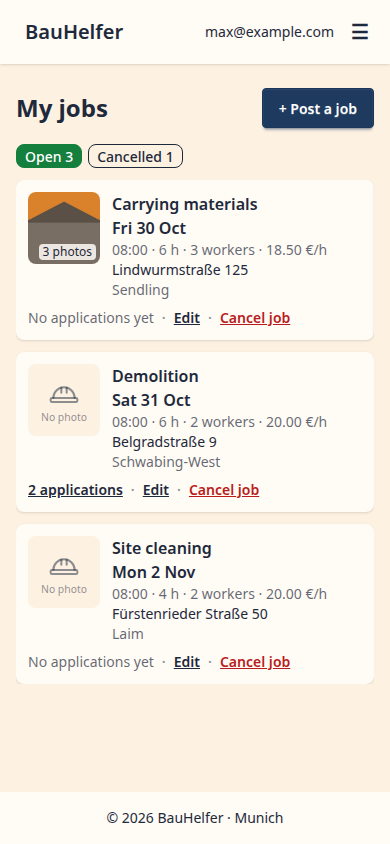
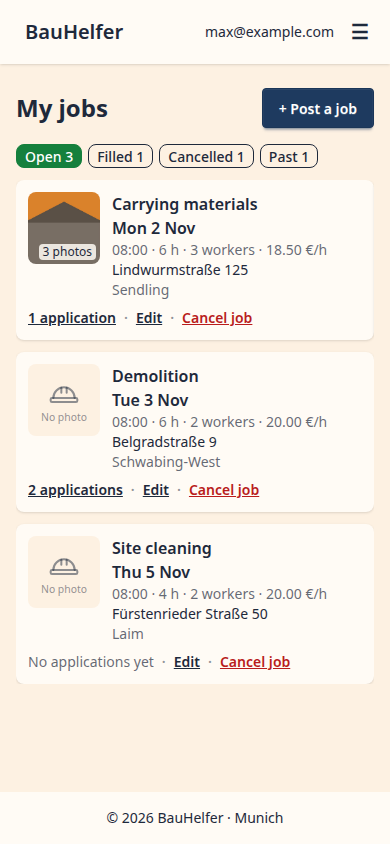
Update the built screenshots of "My applications" and "My jobs"

diff --git a/tests/e2e/built_screenshots.py b/tests/e2e/built_screenshots.py
@@ -56,10 +56,11 @@ def test_save_built_screenshots(page):
     """Save the built screenshots of the screens that exist.
 
     1. Create an employer with three open jobs (one with three photos, one with two
-       applications, one of them accepted) and a cancelled one, and a worker
+       applications, one of them accepted) and a cancelled one, and a worker; Ivan with
+       an accepted, a pending and a past application (#26)
     2. Open the job list as a guest, the job page as the worker, "Post a job", "My jobs"
-       and the job page with the applications as the employer, on a 390 x 844 screen in
-       the light theme
+       and the job page with the applications as the employer, "My applications" as Ivan,
+       on a 390 x 844 screen in the light theme
     3. Expect: one full-page PNG per screen in docs/mockups/built/
     """
     OUT.mkdir(exist_ok=True)
@@ -158,6 +159,49 @@ def test_save_built_screenshots(page):
         status=Application.Status.ACCEPTED, workers_accepted=1
     )
 
+    # Ivan's applications for "My applications" (#26): accepted to a filled job (the
+    # contact box), pending with a message, and one to a job that is over ("Past"). None
+    # changes the job list or Ana's job page: the filled and the past job are not listed,
+    # and a pending application takes no place.
+    ivan = User.objects.create_user(
+        email="ivan@example.com",
+        password=PASSWORD,
+        role="worker",
+        name="Ivan Petrenko",
+        work_permit_confirmed_at=timezone.now(),
+    )
+    WorkerProfile.objects.create(
+        user=ivan,
+        team_size=2,
+        skills=["demolition"],
+        languages=["uk"],
+        legal_status="gewerbe",
+    )
+    employer.phone = "+49 170 7654321"
+    employer.save()
+    filled = make_job(
+        employer,
+        job_type="demolition",
+        address="Kurfürstenstraße 12",
+        district="maxvorstadt",
+        date=today + 4 * DAY,
+        status="filled",
+    )
+    Application.objects.create(
+        job=filled,
+        worker=ivan,
+        workers_offered=2,
+        workers_accepted=2,
+        status=Application.Status.ACCEPTED,
+    )
+    Application.objects.create(
+        job=job, worker=ivan, workers_offered=2, message="We are a crew of two."
+    )
+    over = make_job(
+        employer, job_type="site_cleaning", district="laim", date=today - 2 * DAY
+    )
+    Application.objects.create(job=over, worker=ivan)
+
     # live_server does not serve uploads (in-memory storage): answer every photo address.
     picture = photo_bytes("#d9822b")
     page.route(
@@ -174,3 +218,6 @@ def test_save_built_screenshots(page):
     shoot(page, "/jobs/new/", "post-a-job")
     shoot(page, "/jobs/mine/", "my-jobs")
     shoot(page, f"/jobs/{demolition.pk}/", "job-applications")
+    page.context.clear_cookies()
+    log_in(page, "ivan@example.com")
+    shoot(page, "/jobs/applications/", "my-applications")
